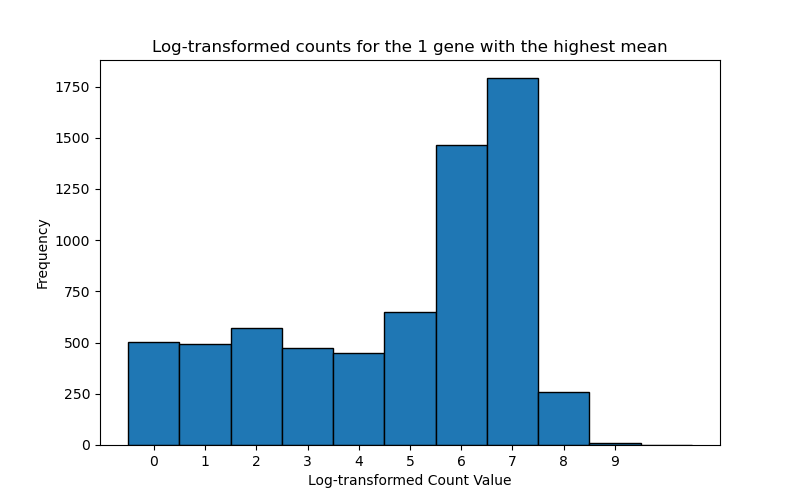
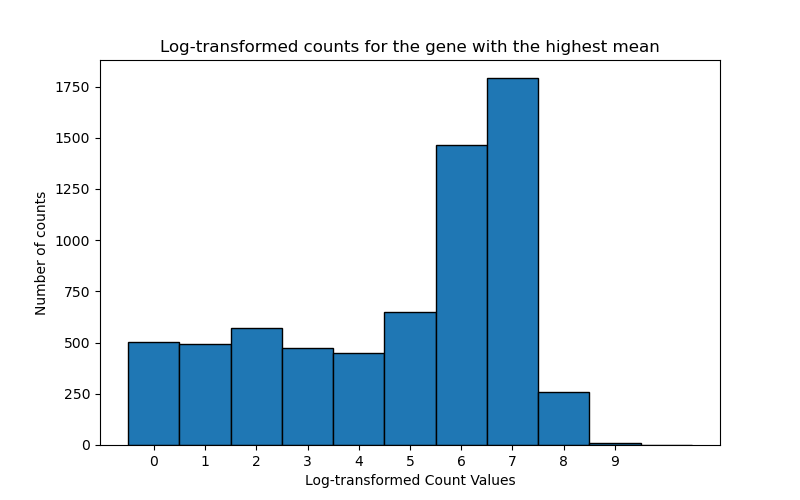
histogram bilder

Changed region(s): [[0.1875, 0.06, 0.8438, 0.12], [0.375, 0.93, 0.6562, 0.99], [0.0312, 0.39, 0.0625, 0.63]]

diff --git a/histograms/histogram_separate_genes.py b/histograms/histogram_separate_genes.py
@@ -3,8 +3,8 @@ import pandas as pd
 import matplotlib.pyplot as plt
 
 count_matrix = "/storage/koningen/count_matrix.tsv"
-#highest_raw_counts = "/storage/koningen/ranked_counts/highest_raw_counts.tsv"
-lowest_raw_counts = "/storage/koningen/ranked_counts/lowest_raw_counts.tsv"
+highest_raw_counts = "/storage/koningen/ranked_counts/highest_raw_counts.tsv"
+# lowest_raw_counts = "/storage/koningen/ranked_counts/lowest_raw_counts.tsv"
 
 num_top_rows = 1
 max_zero_percentage = 0.5
@@ -25,8 +25,8 @@ with open(count_matrix, "r") as infile:
         # Only include rows with more than 75% non-zero
         if zero_percentage <= max_zero_percentage:
            #max_value = max(numeric_values)  # Find the maximum value in the row
-           min_value = min(numeric_values) # Find the minimum value in the row
-           values.append((identifier, min_value))  # Store as tuple (identifier, max_value)
+           max_value = max(numeric_values) # Find the minimum value in the row
+           values.append((identifier, max_value))  # Store as tuple (identifier, max_value)
 
 # Sort
 values.sort(key=lambda x: x[1], reverse=False) # High to low --> True
@@ -35,7 +35,7 @@ values.sort(key=lambda x: x[1], reverse=False) # High to low --> True
 top_identifiers = {identifier for identifier, _ in values[:num_top_rows]}
 
 # Filter the original file to keep only the rows with identifiers in the selected list
-with open(count_matrix, "r") as infile, open(lowest_raw_counts, "w") as outfile:
+with open(count_matrix, "r") as infile, open(highest_raw_counts, "w") as outfile:
     header = next(infile)  # Read and write the header
     outfile.write(header)
 
@@ -52,13 +52,13 @@ df = pd.read_csv(highest_raw_counts, sep="\t").iloc[:, 1:]
 all_values = df.values.flatten()
 
 # Apply transformation
-all_values = np.log(all_values + 1)
+all_values = np.sqrt(all_values)
 
 # Plot histogram
 plt.figure(figsize=(8, 5))
 plt.hist(all_values, bins=np.arange(all_values.max() + 2) - 0.5, edgecolor='black')
-plt.xlabel("Log-transformed Count Value")
+plt.xlabel("SquareRoot-transformed Count Value")
 plt.ylabel("Frequency")
-plt.title(f"Log-transformed counts for the {num_top_rows} genes with the highest individual values")
+plt.title(f"SquareRoot-transformed counts for the gene with the highest individual value")
 plt.xticks(range(int(all_values.max()) + 1))  # Ensure discrete values on x-axis
-plt.savefig("histograms/bilder/genes_filtered/histogram_genes_highest_individual_50.png")
+plt.savefig("histograms/bilder/one_gene_histograms/histogram_1gene_highest_individual_sqrt.png")

diff --git a/histograms/histogram_mean_genes.py b/histograms/histogram_mean_genes.py
@@ -3,8 +3,8 @@ import pandas as pd
 import matplotlib.pyplot as plt
 
 count_matrix = "/storage/koningen/count_matrix.tsv"
-highest_mean_counts = "/storage/koningen/ranked_counts/highest_average_counts.tsv"
-# lowest_mean_counts = "/storage/koningen/ranked_counts/lowest_average_counts.tsv"
+#highest_mean_counts = "/storage/koningen/ranked_counts/highest_average_counts.tsv"
+lowest_mean_counts = "/storage/koningen/ranked_counts/lowest_average_counts.tsv"
 
 num_top_rows = 1
 max_zero_percentage = 0.5
@@ -28,13 +28,13 @@ with open(count_matrix, "r") as infile:
             means.append((identifier, row_mean))  # Store as tuple (identifier, sum)
 
 # Sort means in descending order (highest to lowest mean)
-means.sort(key=lambda x: x[1], reverse=True)
+means.sort(key=lambda x: x[1], reverse=False)
 
 # Get the top N identifiers based on mean
 top_identifiers = {identifier for identifier, _ in means[:num_top_rows]}
 
 # Filter the original file to keep only the rows with identifiers in the selected list
-with open(count_matrix, "r") as infile, open(highest_mean_counts, "w") as outfile:
+with open(count_matrix, "r") as infile, open(lowest_mean_counts, "w") as outfile:
     header = next(infile)  # Read and write the header
     outfile.write(header)
 
@@ -47,16 +47,16 @@ with open(count_matrix, "r") as infile, open(highest_mean_counts, "w") as outfil
 
 
 #### Histogram #####
-df = pd.read_csv(highest_mean_counts, sep="\t").iloc[:, 1:] 
+df = pd.read_csv(lowest_mean_counts, sep="\t").iloc[:, 1:] 
 all_values = df.values.flatten()
 # Apply log transformation
-all_values = np.log(all_values + 1)
+all_values = np.sqrt(all_values)
 
 # Plot histogram
 plt.figure(figsize=(8, 5))
 plt.hist(all_values, bins=np.arange(all_values.max() + 2) - 0.5, edgecolor='black')
-plt.xlabel("Log-transformed Count Value")
-plt.ylabel("Frequency")
-plt.title(f"Log-transformed counts for the {num_top_rows} gene with the highest mean")
+plt.xlabel("SquareRoot-transformed Count Values")
+plt.ylabel("Number of counts")
+plt.title(f"SquareRoot-transformed counts for the gene with the lowest mean")
 plt.xticks(range(int(all_values.max()) + 1))  # Ensure discrete values on x-axis
-plt.savefig("histograms/bilder/one_gene_histograms/histogram_1gene_highest_mean.png")
+plt.savefig("histograms/bilder/one_gene_histograms/histogram_1gene_lowest_mean_sqrt.png")
